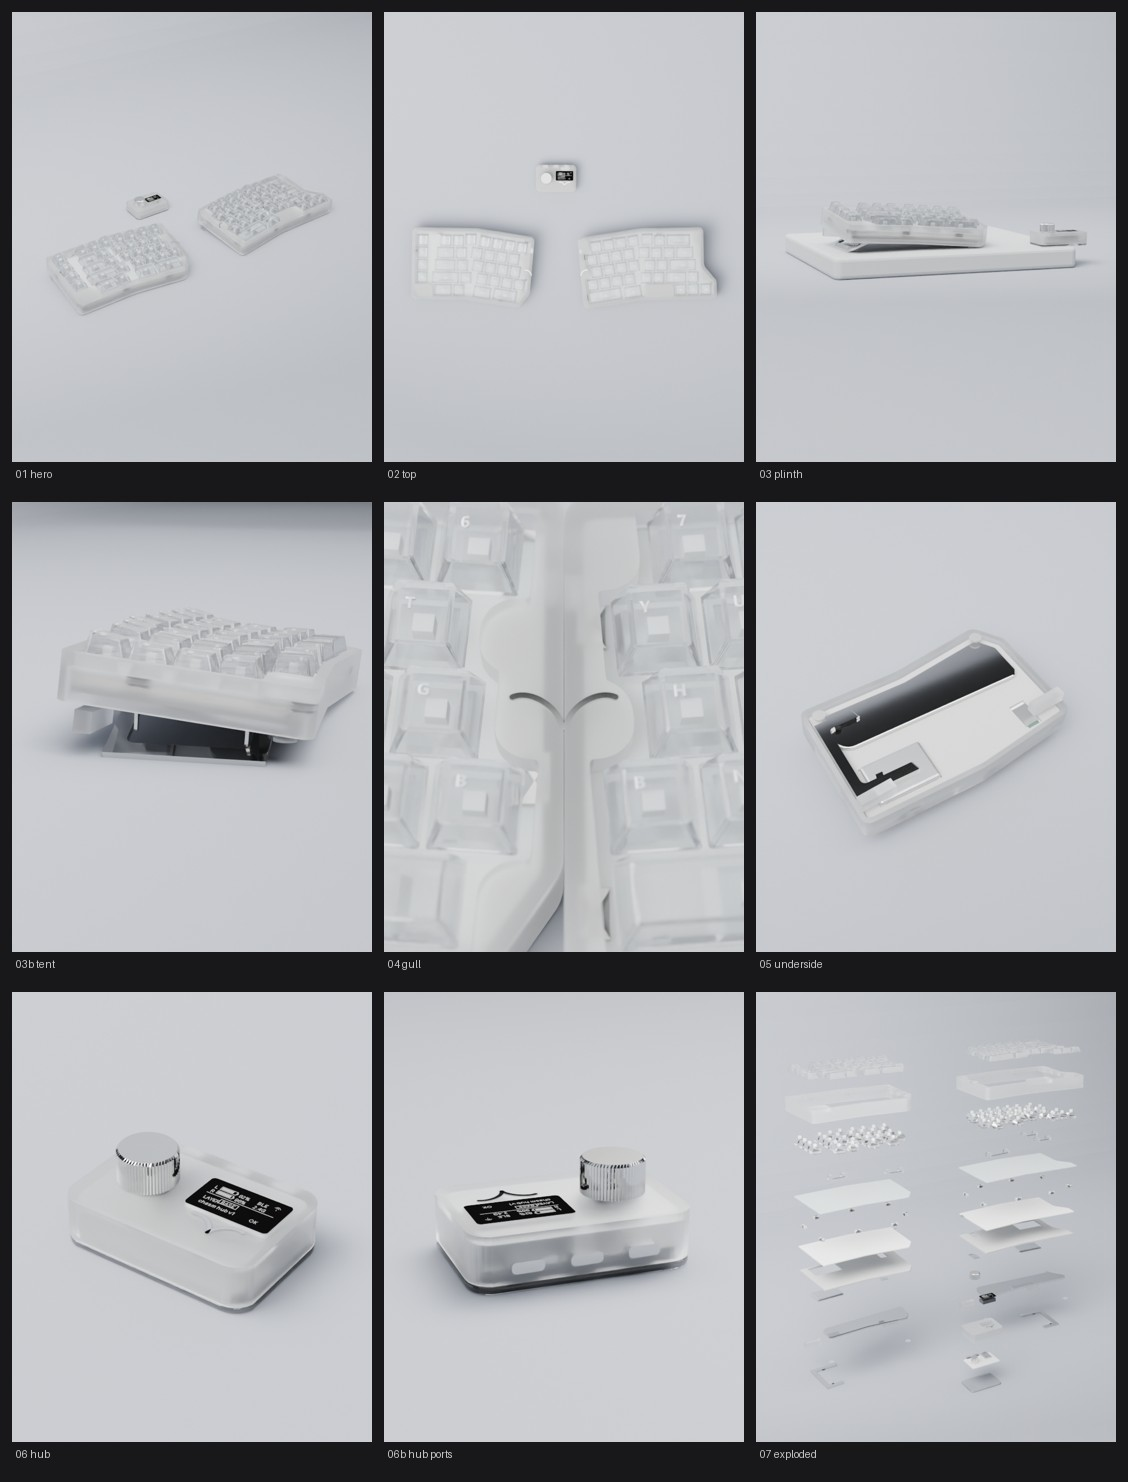
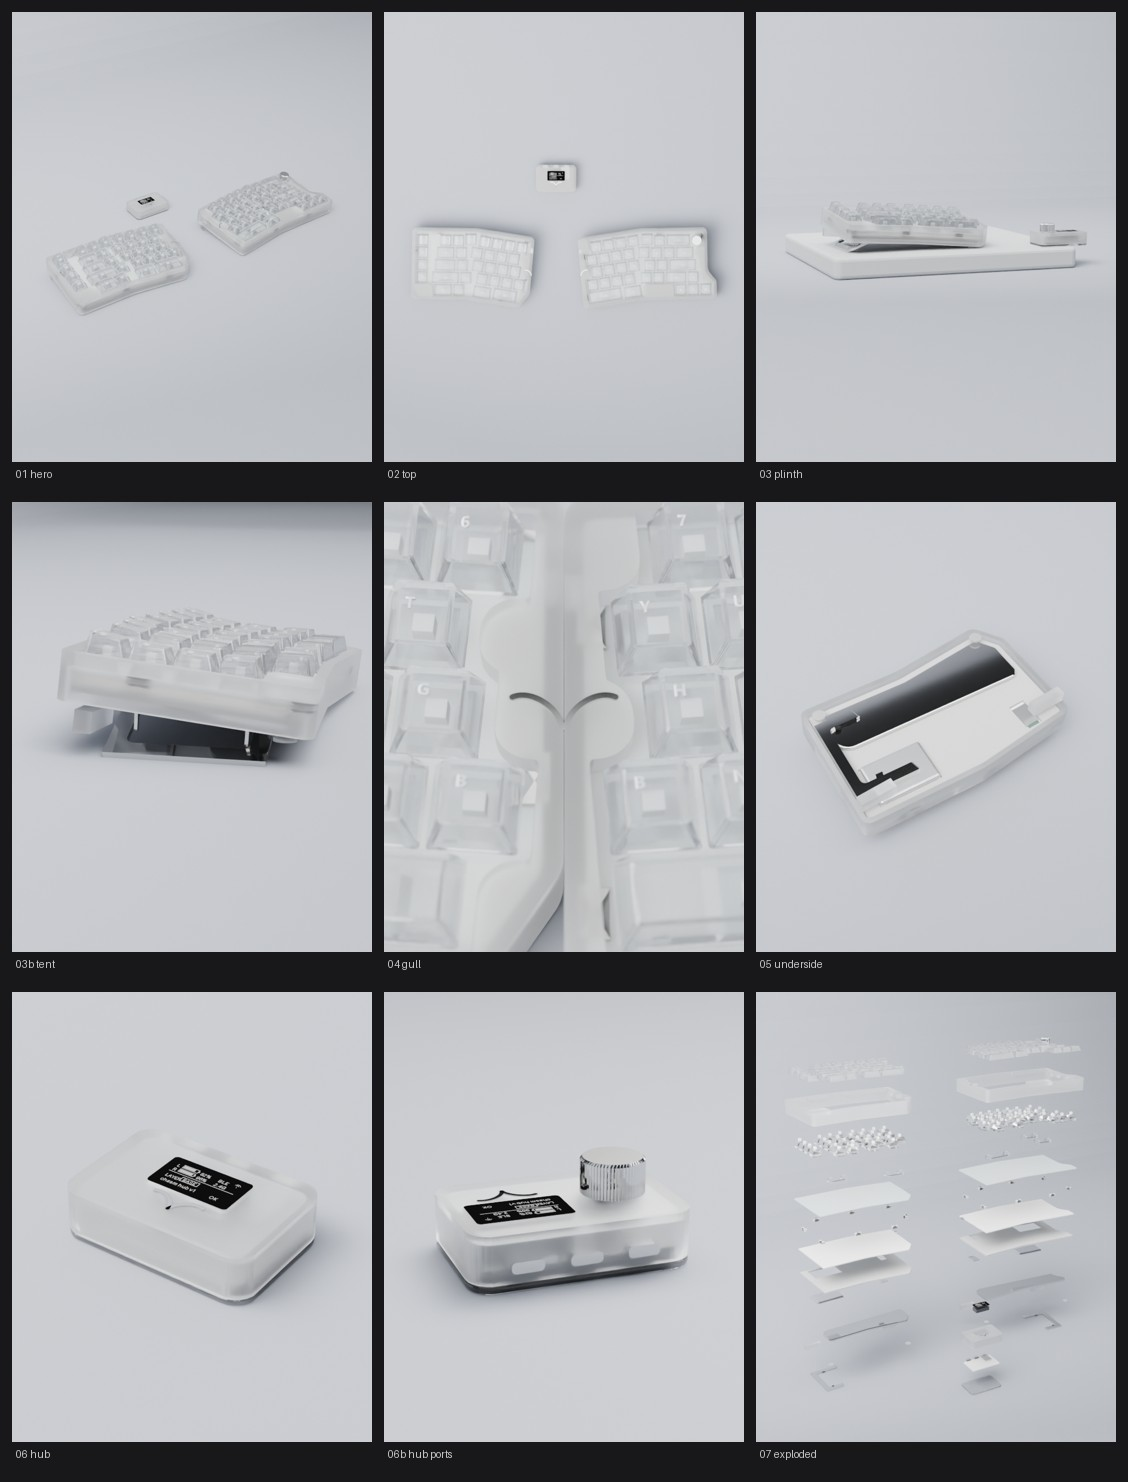
Knob moves to the right half (right of Backspace); hub without knob

diff --git a/blender/build_scene.py b/blender/build_scene.py
@@ -552,6 +552,9 @@ def build(design):
     for ob in list(bpy.data.objects):          # factory-startup Cube/Light/Camera
         bpy.data.objects.remove(ob)
     keys = json.load(open(os.path.join(ROOT, design["inputs"]["keys"]), encoding="utf-8"))
+    kv = ol.knob_virtual_key(design, keys)  # keyboard knob keepout: outlines grow around it
+    if kv:
+        keys["keys"].append(kv)
     unit = keys["unit_mm"]
     D = design
     derived = {"unit_mm": unit}
@@ -617,7 +620,7 @@ def build(design):
                                    inset=D["plate"]["inset_mm"])
         pcb_pts, _, _ = ol.outline(edges, keys["keys"], half, unit,
                                  inset=D["pcb"]["inset_mm"])
-        hks = [k for k in keys["keys"] if k["half"] == half]
+        hks = [k for k in keys["keys"] if k["half"] == half and not k.get("virtual")]
 
         i_idx = next(i for i, e in enumerate(edges) if e["name"] == "inner")
         n_i, d_i = L[i_idx]
@@ -1021,6 +1024,16 @@ def build(design):
         logs.append(f"{half} gull->opening clearance {clr:.2f} mm, legends {n_leg}")
         assert clr >= lg["min_clear_to_opening_mm"], \
             f"{half} gull clearance {clr:.2f} < {lg['min_clear_to_opening_mm']}"
+        # ---- keyboard knob (user 2026-10-02): right of Backspace on the right half
+        kxy = ol.knob_xy(D, keys)
+        if kxy and kxy[0] == half:
+            kb = D["knob_kb"]
+            kstyle = dict(D["hub"]["knob"], d_mm=kb["d_mm"])
+            disc(f"{half}_knob_enc", kxy[1], kxy[2], D["stack"]["plate_z"][1],
+                 hh + kb["z_gap_mm"] - 0.2, 6.0, coll, mats["rf_can"], seg=24)
+            kob = knob_mesh(f"{half}_knob", kstyle, mats[kstyle["material"]], coll)
+            kob.location = (kxy[1] * MM, kxy[2] * MM, (hh + kb["z_gap_mm"]) * MM)
+            logs.append(f"{half} knob at ({kxy[1]:.1f}, {kxy[2]:.1f}) mm, d {kb['d_mm']}")
         g["logo_clear"] = clr
         g["open_pts"] = open_pts
         g["anchor_proj"] = proj
@@ -1561,10 +1574,11 @@ def build_hub(D, mats, coll, cut, scene_coll, geom):
                     (fy - (o["window_xy"][1] - o["window_mm"][1] / 2)) / o["window_mm"][1])
 
     kn = hc["knob"]
-    disc("hub_enc", kn["xy"][0], kn["xy"][1], hc["pcb_z"][1],
-         H + kn["gap_mm"] - 0.2, 6.0, coll, mats["rf_can"], seg=24)
-    knob = knob_mesh("hub_knob", kn, mats[kn["material"]], coll)
-    knob.location = (kn["xy"][0] * MM, kn["xy"][1] * MM, (H + kn["gap_mm"]) * MM)
+    if hc.get("knob_enabled", True):  # 2026-10-02: knob moved to the keyboard
+        disc("hub_enc", kn["xy"][0], kn["xy"][1], hc["pcb_z"][1],
+             H + kn["gap_mm"] - 0.2, 6.0, coll, mats["rf_can"], seg=24)
+        knob = knob_mesh("hub_knob", kn, mats[kn["material"]], coll)
+        knob.location = (kn["xy"][0] * MM, kn["xy"][1] * MM, (H + kn["gap_mm"]) * MM)
 
     gl = hc["gull"]
     for side in (-1, 1):  # hub shows the full logo: both wings, real mirror

diff --git a/blender/outline.py b/blender/outline.py
@@ -16,7 +16,31 @@ ROOT = os.path.dirname(HERE)
 def load():
     design = json.load(open(os.path.join(HERE, "design.json"), encoding="utf-8"))
     keys = json.load(open(os.path.join(ROOT, design["inputs"]["keys"]), encoding="utf-8"))
+    kv = knob_virtual_key(design, keys)
+    if kv:
+        keys["keys"].append(kv)
     return design, keys
+
+
+def knob_xy(design, keys):
+    """Keyboard knob centre (half frame, mm): right of the anchor key's pitch box."""
+    kb = design.get("knob_kb")
+    if not kb:
+        return None
+    a = next(k for k in keys["keys"] if k["id"] == kb["anchor"])
+    x = a["x_mm"] + a["w_u"] * keys["unit_mm"] / 2 + kb["gap_after_mm"] + kb["d_mm"] / 2
+    return kb["half"], x, a["y_mm"]
+
+
+def knob_virtual_key(design, keys):
+    """Square 'key' the size of the knob keepout so case outline + opening wrap the knob."""
+    kxy = knob_xy(design, keys)
+    if not kxy:
+        return None
+    half, x, y = kxy
+    return {"id": "RKNOB" if half == "R" else "LKNOB", "half": half, "label": "KNOB",
+            "w_u": design["knob_kb"]["box_mm"] / keys["unit_mm"], "x_mm": x, "y_mm": y,
+            "rot_deg": 0.0, "stab": False, "virtual": True}
 
 
 def key_rect(k, unit, cap=None):

diff --git a/docs/cad-gates.md b/docs/cad-gates.md
@@ -18,7 +18,7 @@ Rule: Blender exchanges **numbers** (`design.json`), never meshes; SolidWorks ca
 | A6 | Inter-half link: BLE only rev 1 | **Locked 2026-10-01** | `decisions/2026-10-01-inter-half-link.md` |
 | A6b | Architecture: dongle hub (Duo-style), both halves BLE peripherals | **Locked 2026-10-01** | `decisions/2026-10-01-dongle-hub.md`; dongle = 3rd enclosure |
 | A7 | Ports: 1 USB-C per half on the inner edge; dongle upstream + 2 down | **Locked 2026-10-01** (down count = lean) | Exact edge height after stack-up |
-| A8 | OLED + knob on the hub box; no knob on halves | **Locked 2026-10-01** | Logo: gull C, polished stainless inlay, one wing per half at inner edge beside G / H; weights polished stainless |
+| A8 | OLED on the hub box; **knob on the right half, right of Backspace** (rev 2026-10-02, user); hub has no knob | **Locked** | Logo: gull C, polished stainless inlay, one wing per half at inner edge beside G / H; weights polished stainless |
 | A9 | Tenting: flip-out hinged legs | **Locked 2026-10-01** | `decisions/2026-10-01-tenting.md`; hinge part → B3 |
 | A9b | Finish: full frost, clear bottom over weights | **Working choice 2026-10-01** | `decisions/2026-10-01-case-finish.md`; lighting open |
 | A10 | Stack-up heights | Draft below | Needs A11 parts |

diff --git a/blender/orchestrator/resume-04.md b/blender/orchestrator/resume-04.md
@@ -5,5 +5,5 @@ REMAINING - do these, re-render drafts + contact sheet, update PROGRESS.md and N
 2. G4: 05_underside weight renders as a black mirror; add the glossy-only reflection card (spec G4) and grey foam is already in; meet the G4 metrics.
 3. 07_exploded: the hub's exploded stack overlaps the right half's lowest layers in frame - move it clear (e.g. further forward/left) so all three stacks read separately.
 4. 01_hero: set fills ~70% of frame width.
-Hub: knob moved to the top right (user): knob xy [17,7], OLED window [-11,4], gull [-11,-11.5] - keep this layout and the hub orientation; 06/06b camera setups unchanged.
+Knob (user 2026-10-02): the knob is now on the RIGHT HALF, right of Backspace (design.json knob_kb; outline.py adds it as a virtual key so case + opening grow around it; build_scene skips virtual keys for switches/caps). The hub has NO knob (hub.knob_enabled false; OLED centred [0,4], gull [0,-11.5]). Keep this; re-frame 06_hub for the knob-less hub if needed (same camera angle).
 Commits: do NOT git commit or push.

diff --git a/blender/PROGRESS.md b/blender/PROGRESS.md
@@ -18,3 +18,4 @@
 - [2026-10-02 09:29] WORKING (Claude, Devin quota out) G1 clear X-Ray caps, G2 legend font-scale fix (Segoe cap 0.42->0.70 x size, bold), G4 grey foam, G5 plinth 0.48/25mm/margin 25, gull: edge_fillet 0.5 + vertex_inset 0.3 | next: full draft re-render + review | files: blender/design.json build_scene.py render_shots.py
 - [2026-10-02 09:35] WORKING (Claude) exploded fixed: gap 20->42, hub to front [0,-150], no plinth (desk), el 21, plinth mat 0.26; USB-C cutters now cross the wall (G6) but hub ports still render as frosted pills - next: debug (bevel after bool? ray-cast) | files: design.json build_scene.py render_shots.py renders/stills/v1/draft/07,06b
 - [2026-10-02 13:58] WORKING (Claude) hub layout: knob top right [17,7], OLED [-11,4], gull [-11,-11.5] (user) | files: design.json, draft 06
+- [2026-10-02 14:04] WORKING (Claude) knob moved to right half right of Bksp (knob_kb, virtual key in outline.py), hub knob removed, OLED centred | files: design.json outline.py build_scene.py drafts 01 02 06 07

diff --git a/docs/decisions/2026-10-01-dongle-hub.md b/docs/decisions/2026-10-01-dongle-hub.md
@@ -12,5 +12,5 @@
 | Why | Matches Duo; OLED + hub on USB power (never dead on battery, no OLED sleep compromise); halves become identical-role peripherals → better battery life, simpler boards |
 | Costs | 3rd board + 3rd enclosure (Blender/SolidWorks object); halves only type through the dongle (ZMK roles are compile-time; direct BLE to a phone/laptop = other firmware build) |
 | Lighting | Halves are always on battery now → underglow on halves only when USB-C plugged, or very dim (decide with lighting) |
-| Encoder | Left macro column candidate stays; ZMK forwards peripheral encoders in recent releases — verify Phase 3 |
+| Encoder | Rev 2026-10-02: on the right half, right of Backspace (case grows ~9 mm at the upper outer edge); hub has no knob. ZMK peripheral encoder support — verify Phase 3 |
 | Affects | Roadmap §2, §5, §6, §7; BOM electronics; gates A7, A8; MCU decision (USB pins now needed in the dongle only) |
